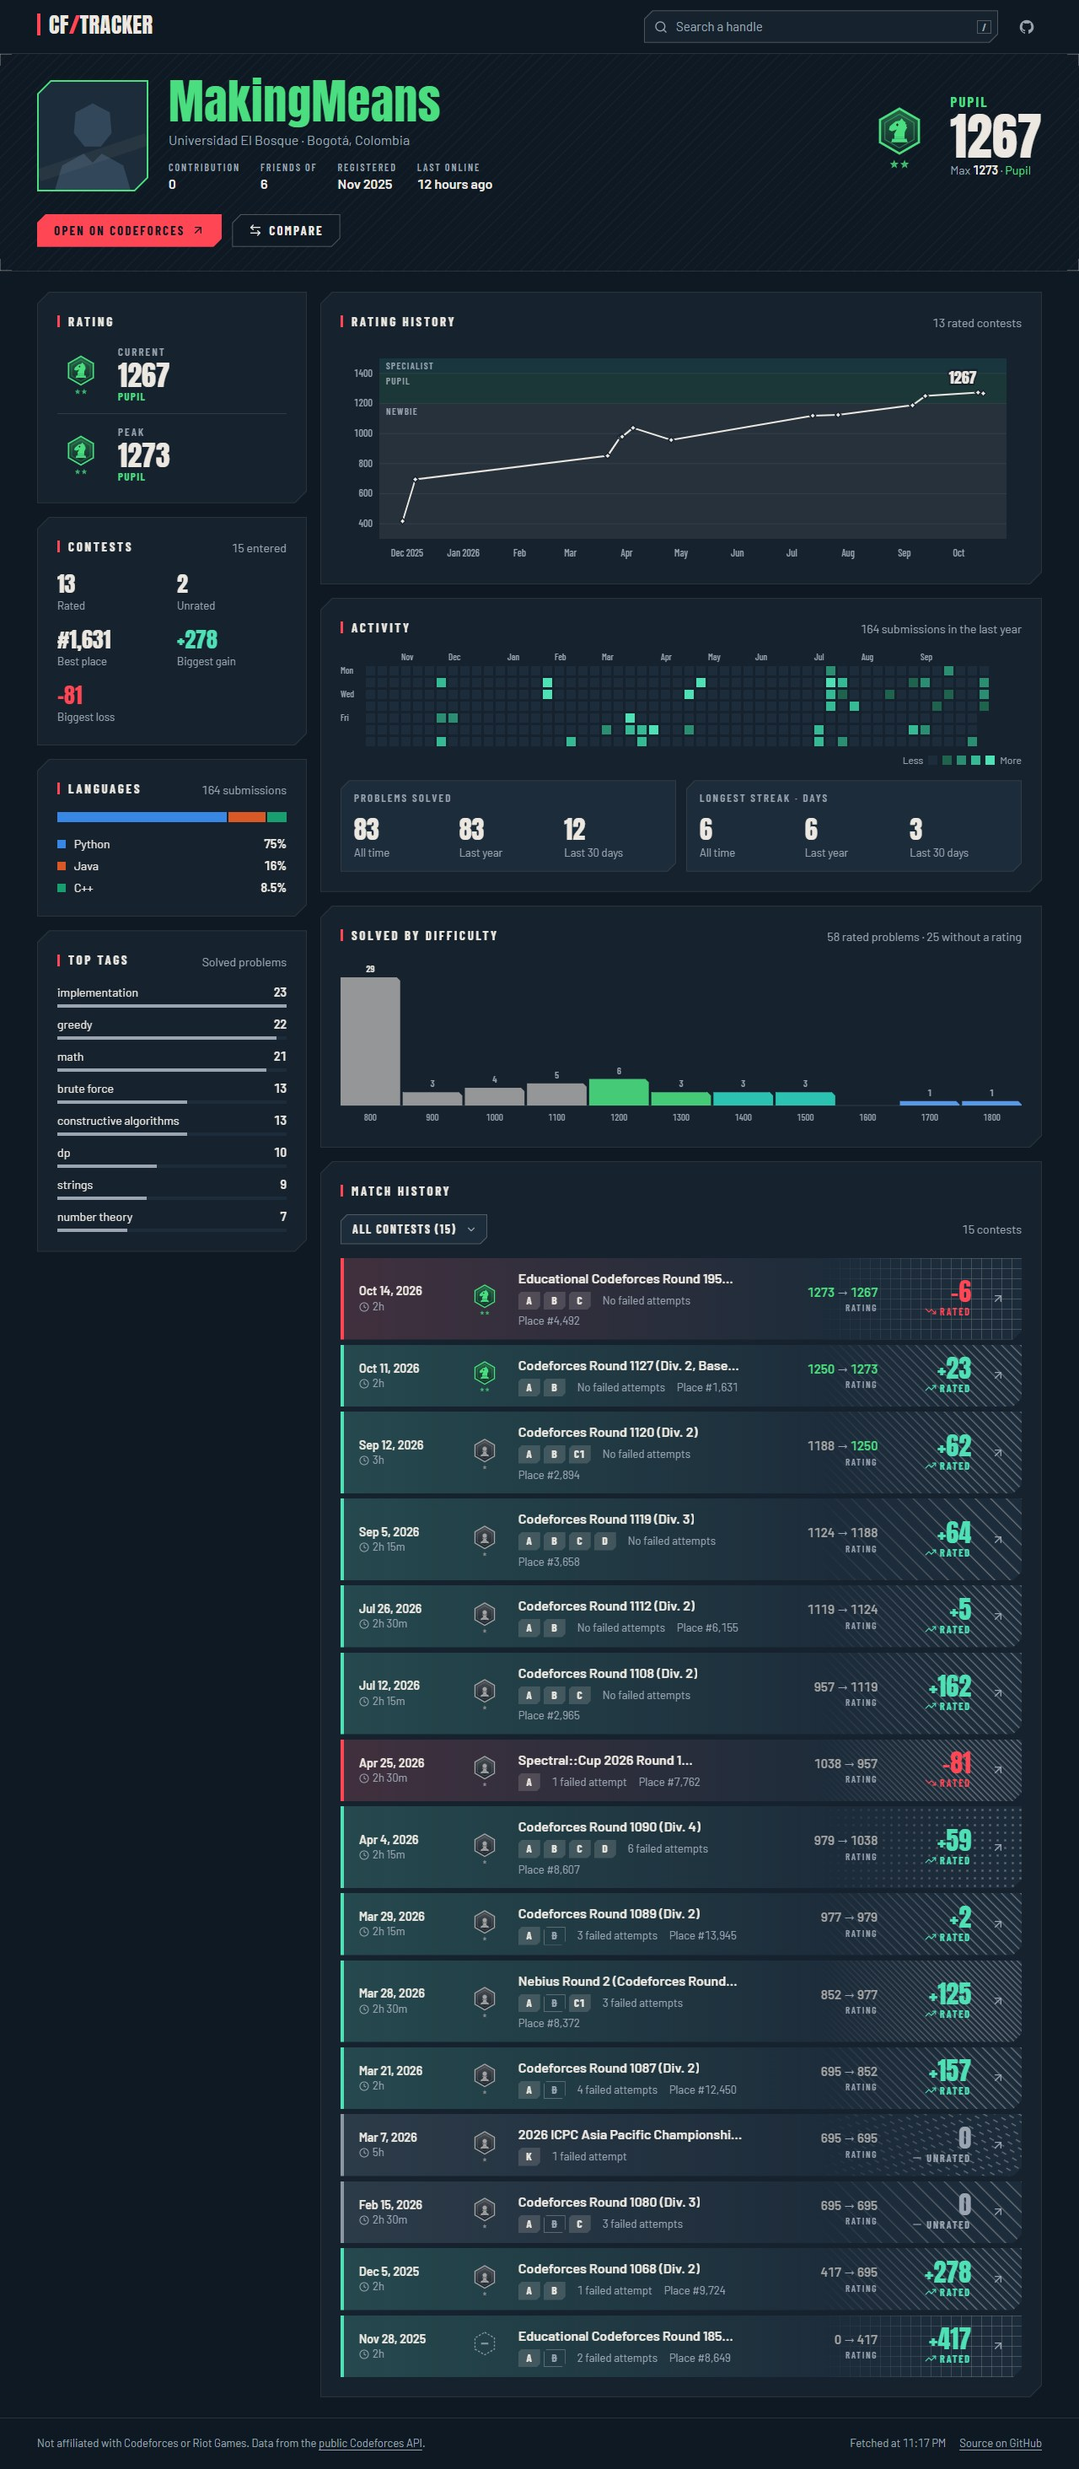
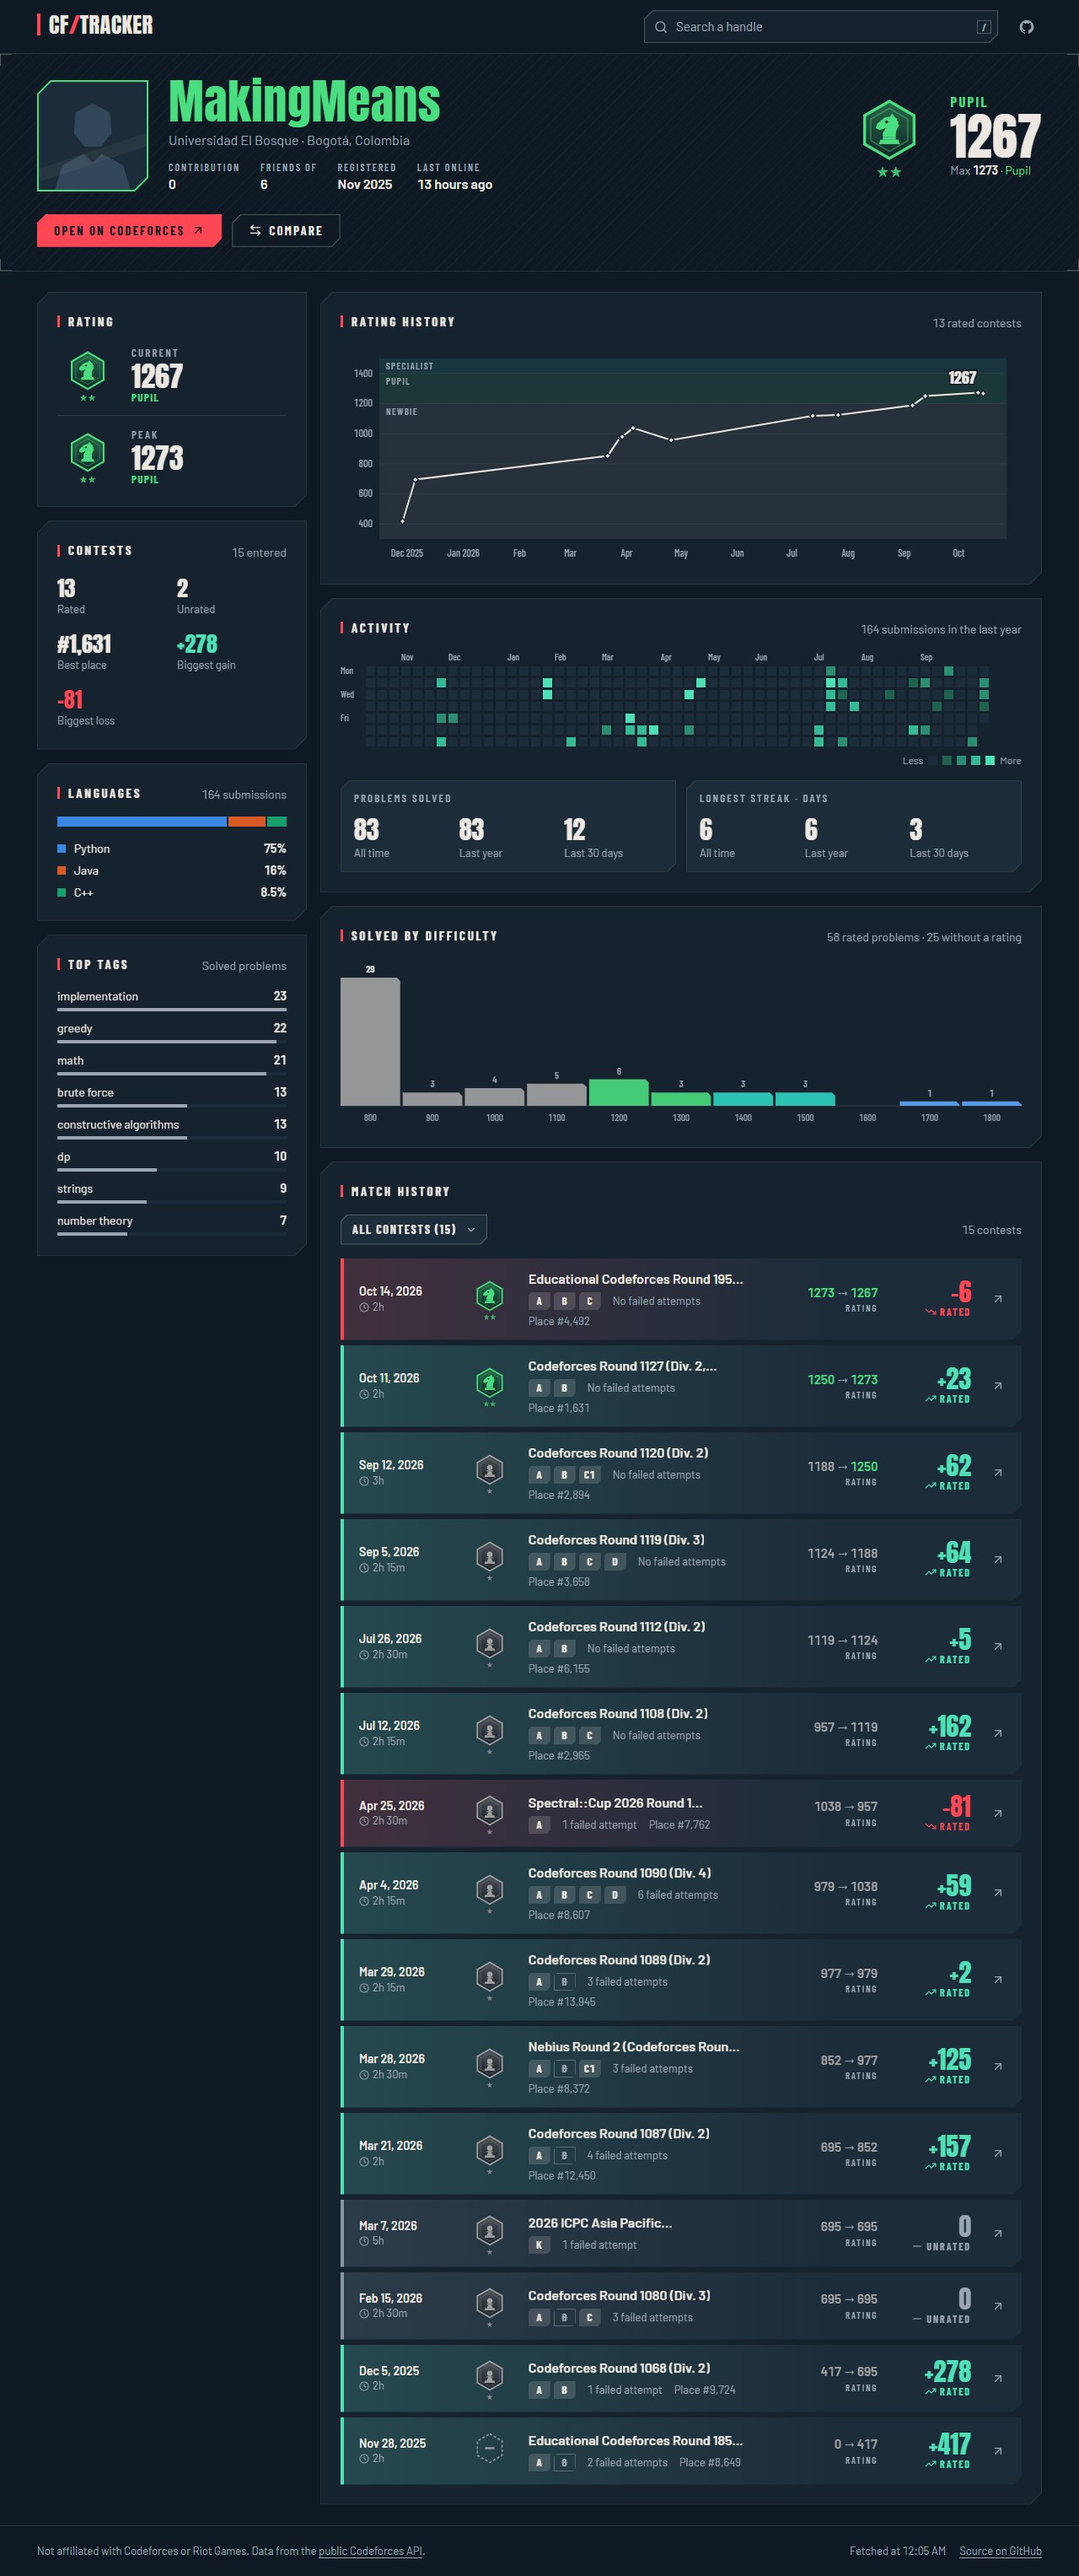
docs: new emblem sizes, rows without patterns, fresh screenshots

diff --git a/docs/design/rank-emblems.html b/docs/design/rank-emblems.html
@@ -146,7 +146,7 @@ body { background: var(--bg); color: var(--ink); font-family: var(--font-body); 
   <section class="plate" aria-labelledby="sizes-title">
     <div class="plate-head">
       <h2 id="sizes-title">Sizes</h2>
-      <p>88 px in the profile header, 44 px in the match history, 28 and 20 px next to text.</p>
+      <p>112 px in the profile header, 76 px on the rank ladder, 72 px on the rating card, 56 px in the match history (48 px on phones).</p>
     </div>
     <div class="sizes cut" id="sizes"></div>
   </section>
@@ -191,14 +191,14 @@ body { background: var(--bg); color: var(--ink); font-family: var(--font-body); 
 
   document.getElementById('hero').innerHTML = ALL.map((r) => '<div>' + svg(r.tier, 104) + '<span style="color:' + r.color + '">' + r.name + '</span></div>').join('')
 
-  document.getElementById('sizes').innerHTML = [88, 64, 44, 28, 20]
+  document.getElementById('sizes').innerHTML = [112, 76, 72, 56, 48]
     .map((s) => '<div class="row"><span class="label">' + s + ' px</span><div class="strip">' + ALL.map((r) => svg(r.tier, s)).join('') + '</div></div>')
     .join('')
 
   document.getElementById('heads').innerHTML = [1287, 1987, 2462, 3786]
     .map((rating) => {
       const r = E.rankFor(rating)
-      return '<div class="pv-head">' + svg(r.tier, 88) + '<div><div class="rk" style="color:' + r.color + '">' + r.name + '</div><div class="rt num">' + rating + '</div></div></div>'
+      return '<div class="pv-head">' + svg(r.tier, 112) + '<div><div class="rk" style="color:' + r.color + '">' + r.name + '</div><div class="rt num">' + rating + '</div></div></div>'
     })
     .join('')
 
@@ -210,7 +210,7 @@ body { background: var(--bg); color: var(--ink); font-family: var(--font-body); 
     ['loss', 2341, 'Codeforces Round (Div. 1)', 'Sep 14, 2026 · Place #96', MINUS + '18'],
     ['gain', 3104, 'Codeforces Global Round', 'Sep 2, 2026 · Place #3', '+41'],
   ]
-    .map(([cls, before, name, sub, d]) => '<div class="pv-row ' + cls + '">' + svg(E.rankFor(before).tier, 44) + '<div style="min-width:0"><div class="nm">' + name + '</div><div class="sub num">' + sub + '</div></div><span class="d num">' + d + '</span></div>')
+    .map(([cls, before, name, sub, d]) => '<div class="pv-row ' + cls + '">' + svg(E.rankFor(before).tier, 56) + '<div style="min-width:0"><div class="nm">' + name + '</div><div class="sub num">' + sub + '</div></div><span class="d num">' + d + '</span></div>')
     .join('')
 
   const cards = document.getElementById('cards')

diff --git a/docs/DESIGN.md b/docs/DESIGN.md
@@ -9,7 +9,9 @@ DIN Next). Everything here is original or from Google Fonts.
 
 To see it rather than read it, open [`docs/design/visual-sample.html`](design/visual-sample.html)
 in a browser. It is the approved sample: palette with contrast ratios, type, controls, emblems, and
-the profile page mocked with example data.
+the profile page mocked with example data. Two things changed after it: the match history rows no
+longer carry a texture per contest kind on their right edge (the kind is already in the contest's
+name), and the emblems are about 30 % larger than drawn there.
 
 ## Colour
 
@@ -184,7 +186,8 @@ All figures are flat blocks (trapezoids, bars, diamonds and octagons), with no c
 
 ### Using the emblems
 
-- **Sizes.** 88 px in the profile header, 44 px in the match history, 28 and 20 px next to text.
+- **Sizes.** 112 px in the profile header, 76 px on the home page's rank ladder, 72 px on the
+  rating card, 56 px in the match history and the comparison header (48 px in rows on phones).
   Stars are countable from 44 px up; at 28 px they read as a row of dots.
 - **Accessibility.** Every emblem has `role="img"`, an `aria-label` and a `<title>` with the rank
   name and star count. Next to text, the rank name is always written out too.
